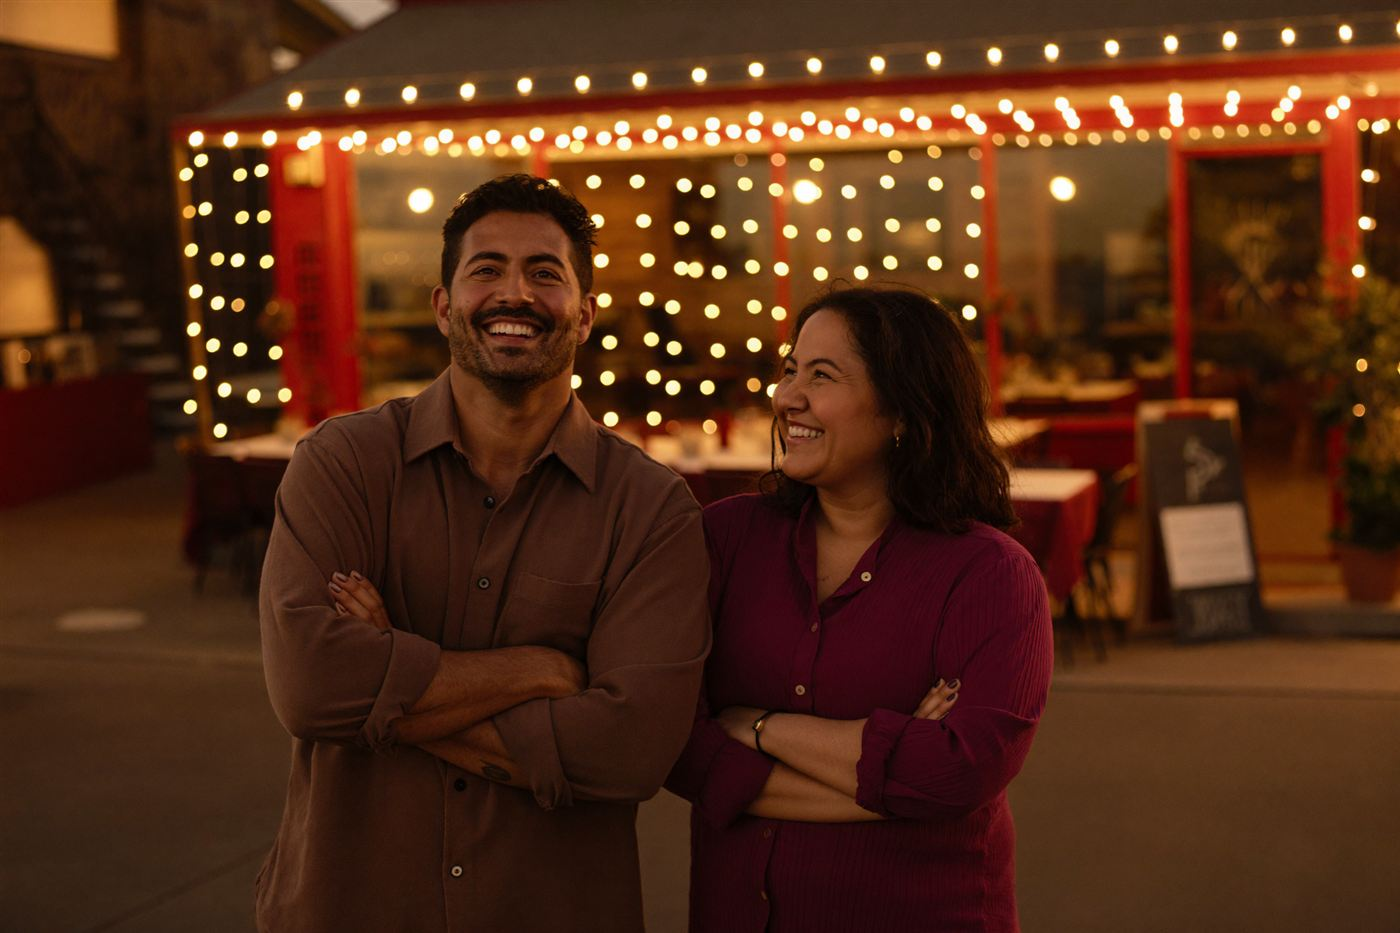
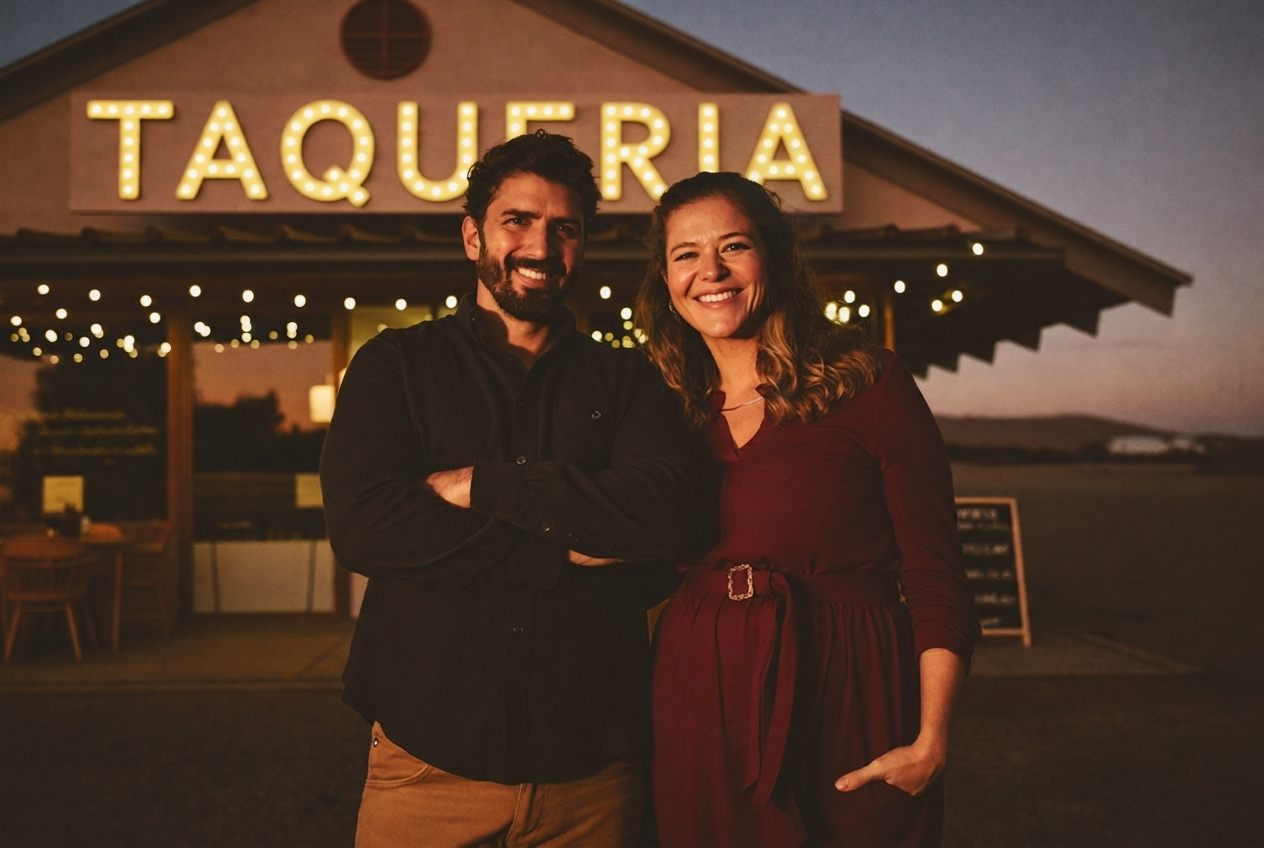
Tarjeta "Todo lo demás" + letrero TAQUERIA corregido + FAQ en inglés
- Nueva ocasión catch-all (cumpleaños, eventos, personalizado) con foto
  de fiesta familiar; papel picado sin letras (editado con nano banana)
- Foto de Negocios ahora con letrero que dice TAQUERIA correctamente
- FAQ nueva: la canción puede ser en español, inglés o bilingüe
  (también en el JSON-LD)

diff --git a/index.html b/index.html
@@ -117,6 +117,12 @@
         <span class="occ-meta">Jingle · Cumbia · Pop</span>
         <span class="occ-cta">Ver paquetes →</span>
       </article>
+      <article class="occasion occasion-fiesta reveal" data-context="para tu ocasión especial" tabindex="0" role="link" aria-label="Ver paquetes para cualquier ocasión">
+        <h3><span class="script-sm">¿Otra ocasión?</span> Todo lo demás</h3>
+        <p>Cumpleaños, eventos — cualquier momento que merezca una canción hecha a la medida para usted y sus seres queridos.</p>
+        <span class="occ-meta">Cumpleaños · Eventos · También en inglés</span>
+        <span class="occ-cta">Ver paquetes →</span>
+      </article>
     </div>
   </section>
 
@@ -208,6 +214,7 @@
     <div class="faq">
       <details class="reveal"><summary>¿Cuánto tarda mi canción?</summary><p>La entrega estándar es de 7 a 10 días. ¿La fiesta es este fin de semana? Ofrecemos entrega urgente en 72 horas con el paquete Gran Gala.</p></details>
       <details class="reveal"><summary>¿Puedo pedir un género específico?</summary><p>Claro que sí: vals, balada, cumbia, corrido, banda, bachata, mariachi, pop y más de veinte géneros. Tú eliges el sabor.</p></details>
+      <details class="reveal"><summary>¿La canción puede ser en inglés?</summary><p>¡Claro! Componemos en español, en inglés o bilingüe — perfecta para familias que celebran en los dos idiomas. We write in English too, just ask.</p></details>
       <details class="reveal"><summary>¿Qué pasa si quiero cambios?</summary><p>Cada paquete incluye revisiones. Trabajamos contigo hasta que la canción se sienta exactamente como tu historia.</p></details>
       <details class="reveal"><summary>¿En qué formato la recibo?</summary><p>MP3 de calidad de estudio; los paquetes Serenata y Gran Gala incluyen también WAV sin compresión, listo para el DJ del evento.</p></details>
       <details class="reveal"><summary>¿Mi historia queda confidencial?</summary><p>Siempre. Tu historia es tuya — solo la convertimos en música.</p></details>
@@ -276,6 +283,8 @@
         "acceptedAnswer": { "@type": "Answer", "text": "La entrega estándar es de 7 a 10 días. También ofrecemos entrega urgente en 72 horas con el paquete Gran Gala." } },
       { "@type": "Question", "name": "¿Puedo pedir un género específico?",
         "acceptedAnswer": { "@type": "Answer", "text": "Sí: vals, balada, cumbia, corrido, banda, bachata, mariachi, pop y más de veinte géneros." } },
+      { "@type": "Question", "name": "¿La canción puede ser en inglés?",
+        "acceptedAnswer": { "@type": "Answer", "text": "Sí. Componemos en español, en inglés o bilingüe — perfecta para familias que celebran en los dos idiomas." } },
       { "@type": "Question", "name": "¿Qué pasa si quiero cambios?",
         "acceptedAnswer": { "@type": "Answer", "text": "Cada paquete incluye revisiones. Trabajamos contigo hasta que la canción se sienta exactamente como tu historia." } },
       { "@type": "Question", "name": "¿En qué formato la recibo?",

diff --git a/styles.css b/styles.css
@@ -256,6 +256,11 @@ h2 { font-size: clamp(2rem, 4.6vw, 3.4rem); text-align: center; margin-bottom: 1
     linear-gradient(180deg, rgba(18,10,20,0.62), rgba(18,10,20,0.88) 72%),
     url("img/negocio.jpg") center 30% / cover no-repeat;
 }
+.occasion-fiesta {
+  background:
+    linear-gradient(180deg, rgba(18,10,20,0.62), rgba(18,10,20,0.88) 72%),
+    url("img/fiesta.jpg") center 30% / cover no-repeat;
+}
 .occasion-hero h3 { font-size: 2.3rem; }
 .occasion-hero p { max-width: 560px; font-size: 1.05rem; }
 .occ-glow {
